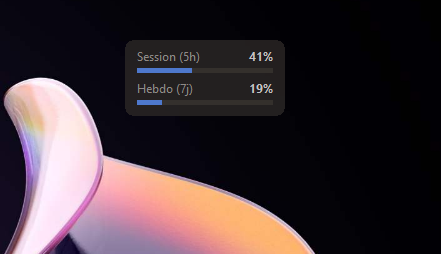
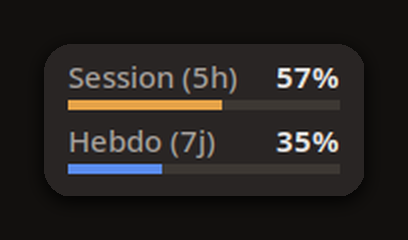
docs: met à jour README/CHANGELOG v2.3.0 et régénère les captures
- README: section « Nouveautés v2.3.0 », panneau détaillé en vedette,
  prérequis Linux corrigés (ayatana + tk + extension GNOME), install PyPI
  via venv --system-site-packages, interactions overlay à jour
- CHANGELOG: entrées Linux/GNOME, fixes overlay/menu, CI Windows
- captures régénérées (popup tous quotas, overlay normal/mini) via le
  nouvel outil tools/capture_screenshots.py ; supprime overlay-hover.png
  (survol supprimé)

diff --git a/tools/capture_screenshots.py b/tools/capture_screenshots.py
@@ -1,0 +1,123 @@
+"""Génère les captures d'écran du README à partir des vrais widgets.
+
+Instancie PopupWindow et OverlayWidget avec des données représentatives,
+affiche chaque fenêtre puis la capture par sa géométrie (PIL ImageGrab, X11).
+Sortie : assets/screenshots/*.png
+
+Usage : uv run python tools/capture_screenshots.py
+"""
+
+from __future__ import annotations
+
+import time
+import tkinter as tk
+from datetime import datetime, timedelta, timezone
+from pathlib import Path
+
+from PIL import Image, ImageDraw, ImageFilter, ImageGrab
+
+from claude_usage_monitor.api import ExtraUsage, UsageData, UsageWindow
+from claude_usage_monitor.i18n import init_i18n
+from claude_usage_monitor.overlay import OverlayWidget
+from claude_usage_monitor.popup import PopupWindow
+
+BACKDROP = (18, 16, 14)  # fond neutre proche du thème Claude sombre
+OUT = Path(__file__).resolve().parent.parent / "assets" / "screenshots"
+
+# Langue cohérente pour les captures (README en français)
+init_i18n("fr")
+
+
+def _resets(hours: float) -> str:
+    return (datetime.now(timezone.utc) + timedelta(hours=hours)).isoformat()
+
+
+def sample_data() -> UsageData:
+    """Forfait Max avec les cinq quotas + utilisation supplémentaire."""
+    return UsageData(
+        five_hour=UsageWindow(utilization=57, resets_at=_resets(2.4)),
+        seven_day=UsageWindow(utilization=35, resets_at=_resets(78)),
+        seven_day_sonnet=UsageWindow(utilization=28, resets_at=_resets(78)),
+        seven_day_opus=UsageWindow(utilization=12, resets_at=_resets(78)),
+        extra_usage=ExtraUsage(
+            is_enabled=True, used_credits=1988, monthly_limit=3000, utilization=66
+        ),
+        subscription_type="max",
+    )
+
+
+def _round_corners(img: Image.Image, radius: int) -> Image.Image:
+    mask = Image.new("L", img.size, 0)
+    ImageDraw.Draw(mask).rounded_rectangle([0, 0, img.width, img.height], radius, fill=255)
+    out = img.convert("RGBA")
+    out.putalpha(mask)
+    return out
+
+
+def present(img: Image.Image, pad: int, radius: int) -> Image.Image:
+    """Centre le widget sur un fond neutre, coins arrondis + ombre portée."""
+    card = _round_corners(img, radius)
+    cw, ch = img.width + pad * 2, img.height + pad * 2
+    canvas = Image.new("RGBA", (cw, ch), (*BACKDROP, 255))
+
+    shadow = Image.new("RGBA", (cw, ch), (0, 0, 0, 0))
+    sh = Image.new("RGBA", img.size, (0, 0, 0, 130))
+    sh = _round_corners(sh, radius)
+    shadow.paste(sh, (pad, pad + 5), sh)
+    shadow = shadow.filter(ImageFilter.GaussianBlur(9))
+
+    canvas = Image.alpha_composite(canvas, shadow)
+    canvas.paste(card, (pad, pad), card)
+    return canvas.convert("RGB")
+
+
+def grab(
+    window: tk.Toplevel, path: Path, pad: int = 32, radius: int = 14, scale: int = 1
+) -> None:
+    window.update_idletasks()
+    window.update()
+    time.sleep(0.5)
+    window.update()
+    x, y = window.winfo_rootx(), window.winfo_rooty()
+    w, h = window.winfo_width(), window.winfo_height()
+    raw = ImageGrab.grab(bbox=(x, y, x + w, y + h))
+    if scale != 1:
+        raw = raw.resize((raw.width * scale, raw.height * scale), Image.LANCZOS)
+    img = present(raw, pad, radius * scale)
+    img.save(path)
+    print(f"  {path.name}  {img.size}")
+
+
+def main() -> None:
+    OUT.mkdir(parents=True, exist_ok=True)
+    data = sample_data()
+    root = tk.Tk()
+    root.withdraw()
+
+    # Overlay normal
+    ov = OverlayWidget(root, {"widget_opacity": 1.0})
+    ov.update_data(data)
+    ov.show()
+    grab(ov._window, OUT / "overlay-normal.png", pad=44, scale=2)
+    ov.hide()
+
+    # Overlay mini
+    ov_mini = OverlayWidget(root, {"widget_opacity": 1.0, "overlay_mini_mode": True})
+    ov_mini.update_data(data)
+    ov_mini.show()
+    grab(ov_mini._window, OUT / "overlay-mini.png", pad=44, scale=2)
+    ov_mini.hide()
+
+    # Popup « Utilisation du forfait » (tous les quotas)
+    popup = PopupWindow(root, on_refresh=lambda: None)
+    popup.update_data(data)
+    popup.show(anchor_rect=(700, 300, 160, 76))
+    grab(popup._window, OUT / "popup.png")
+    popup.hide()
+
+    root.destroy()
+    print("OK")
+
+
+if __name__ == "__main__":
+    main()

diff --git a/README.md b/README.md
@@ -18,15 +18,24 @@ Si vous l'aimez, une ⭐ sur le repo fait vraiment plaisir et aide le projet à 
 > **Projet publié à titre de présentation et de consultation.**
 > Tous droits réservés. Aucune utilisation, reproduction, modification, redistribution ou exploitation commerciale n'est autorisée sans accord écrit préalable de l'auteur. Voir [LICENSE.md](LICENSE.md).
 
+## ✨ Nouveautés v2.3.0
+
+- **Panneau « Utilisation du forfait » complet** : reproduit le panneau natif de Claude — session 5 h, hebdomadaire tous modèles, **Sonnet seul**, **Opus seul** (Max) et **utilisation supplémentaire** (overage en $), chacun avec barre colorée et compte à rebours de réinitialisation.
+- **Linux / GNOME pris en charge** : icône système via **AppIndicator** (affichée par GNOME) avec le **pourcentage en texte** à côté de l'icône, plus correction du crash de démarrage X11.
+- **Overlay plus stable** : ouverture du panneau sans clignotement, taille fixe (ne se déplace plus), mode mini avec état coché dans le menu.
+- **CI Windows** : le `.exe` est désormais compilé automatiquement et attaché aux releases.
+
+Détail complet dans le [CHANGELOG](CHANGELOG.md).
+
 ## Aperçu
 
-| Widget compact | Mode mini |
-|:-:|:-:|
-| ![Overlay normal](https://raw.githubusercontent.com/audi63/claude-usage-monitor/main/assets/screenshots/overlay-normal.png) | ![Overlay mini](https://raw.githubusercontent.com/audi63/claude-usage-monitor/main/assets/screenshots/overlay-mini.png) |
+**Panneau détaillé « Utilisation du forfait »** (au clic sur l'overlay) — tous les quotas du forfait d'un coup d'œil :
 
-| Panneau « Utilisation du forfait » (au clic) | Tooltip systray | Menu tray |
+![Panneau Utilisation du forfait](https://raw.githubusercontent.com/audi63/claude-usage-monitor/main/assets/screenshots/popup.png)
+
+| Widget compact | Mode mini | Menu tray |
 |:-:|:-:|:-:|
-| ![Popup](https://raw.githubusercontent.com/audi63/claude-usage-monitor/main/assets/screenshots/popup.png) | ![Tooltip](https://raw.githubusercontent.com/audi63/claude-usage-monitor/main/assets/screenshots/tray-tooltip.png) | ![Menu](https://raw.githubusercontent.com/audi63/claude-usage-monitor/main/assets/screenshots/tray-menu.png) |
+| ![Overlay normal](https://raw.githubusercontent.com/audi63/claude-usage-monitor/main/assets/screenshots/overlay-normal.png) | ![Overlay mini](https://raw.githubusercontent.com/audi63/claude-usage-monitor/main/assets/screenshots/overlay-mini.png) | ![Menu](https://raw.githubusercontent.com/audi63/claude-usage-monitor/main/assets/screenshots/tray-menu.png) |
 
 ## Pourquoi ?
 
@@ -54,7 +63,7 @@ Si vous l'aimez, une ⭐ sur le repo fait vraiment plaisir et aide le projet à 
 | Plateforme | Statut | Notes |
 |---|---|---|
 | Windows 10/11 | ✅ Testé | Exécutable `.exe` disponible |
-| Linux (X11) | ✅ Compatible | Nécessite `libappindicator3` |
+| Linux (X11) | ✅ Compatible | GNOME : nécessite AppIndicator (voir prérequis Linux) |
 | macOS | ⚠️ Partiel | Credentials lus depuis le Keychain (comme Claude Code) ; non testé en production |
 
 > **À noter** : la *fenêtre de contexte* (ex. `401.1k / 1.0M`) affichée dans le panneau de Claude Code n'est pas reprise — c'est une donnée locale et éphémère propre à chaque session Claude, non exposée par l'API d'utilisation. Le moniteur affiche tout le reste du forfait.
@@ -70,9 +79,18 @@ Si vous l'aimez, une ⭐ sur le repo fait vraiment plaisir et aide le projet à 
 
 ### Linux uniquement
 
+L'interface utilise **tkinter** et l'icône système passe par **AppIndicator**
+(seul mécanisme affiché par GNOME, qui ne rend pas le tray XEmbed historique).
+Sur Ubuntu 24.04 / GNOME :
+
 ```bash
-sudo apt install libappindicator3-1 gir1.2-appindicator3-0.1
+sudo apt install python3-tk python3-gi \
+  gir1.2-ayatanaappindicator3-0.1 libayatana-appindicator3-1 \
+  gnome-shell-extension-appindicator
 ```
+
+> Après l'installation de l'extension GNOME, se déconnecter/reconnecter (ou
+> l'activer via l'app « Extensions ») pour que l'icône apparaisse dans la barre.
 
 ## Installation
 
@@ -80,12 +98,26 @@ sudo apt install libappindicator3-1 gir1.2-appindicator3-0.1
 
 Télécharger `claude-usage-monitor.exe` depuis la page [Releases](https://github.com/audi63/claude-usage-monitor/releases) et le lancer directement.
 
-### Option 2 : Depuis les sources
+### Option 2 : Linux via PyPI
+
+PyGObject (`gi`) est fourni par le système (`python3-gi`) : l'environnement doit
+donc voir les paquets système. On installe dans un venv `--system-site-packages`
+(un venv pipx isolé ne verrait pas `gi`, donc pas d'icône sur GNOME) :
+
+```bash
+python3 -m venv --system-site-packages ~/.local/claude-usage-monitor
+~/.local/claude-usage-monitor/bin/pip install claude-monitor-usage
+~/.local/claude-usage-monitor/bin/claude-usage-monitor
+```
+
+### Option 3 : Depuis les sources
 
 ```bash
 git clone https://github.com/audi63/claude-usage-monitor.git
 cd claude-usage-monitor
-uv sync
+uv venv --system-site-packages    # Linux : pour voir le gi système (AppIndicator)
+uv pip install -e ".[hotkeys]"
+uv run claude-usage-monitor
 ```
 
 ## Utilisation
@@ -102,11 +134,10 @@ uv run claude-usage-monitor
 
 ### Interactions
 
-- **Clic droit** sur le tray icon → menu contextuel (rafraîchir, overlay, quitter…)
+- **Clic droit** sur le tray icon → menu contextuel (rafraîchir, overlay, mode mini, quitter…)
 - **Clic gauche** sur le tray icon → popup détaillé
-- **Survol** du widget overlay → vue étendue avec barres, countdowns, estimation et sparkline 6h
-- **Double-clic** sur le widget overlay → popup complet avec sparkline 24h et infos abonnement
-- **Glisser-déposer** le widget overlay → repositionner (fonctionne aussi en vue étendue)
+- **Clic** sur le widget overlay → grande vue (panneau « Utilisation du forfait ») ancrée à côté, qui se referme quand la souris quitte la zone
+- **Glisser-déposer** le widget overlay → repositionner (la position est mémorisée)
 - **Ctrl+Shift+U** → afficher/masquer le widget overlay
 
 ## Configuration

diff --git a/CHANGELOG.md b/CHANGELOG.md
@@ -11,6 +11,8 @@ Le format est basé sur [Keep a Changelog](https://keepachangelog.com/fr/1.1.0/)
 - **Quotas par modèle** : affichage de `Sonnet seulement` (`seven_day_sonnet`) et `Opus seulement` (`seven_day_opus`) en plus de la session 5 h et de l'hebdomadaire tous modèles. Les lignes s'affichent dynamiquement selon ce que renvoie l'API (Pro comme Max)
 - **Utilisation supplémentaire** : nouvelle ligne `Utilisation supplémentaire` indiquant les dollars dépensés sur la limite mensuelle (`extra_usage` : `used_credits`/`monthly_limit` en centimes), formatée selon la langue (`19,88 $US sur 30,00 $US`)
 - Ces nouveaux quotas apparaissent aussi dans la vue au survol de l'overlay et dans le tooltip du tray
+- **Linux/GNOME : texte dans la barre système** : le pourcentage de la session 5 h s'affiche en texte lisible à côté de l'icône (label AppIndicator natif), comme le nombre gravé dans l'icône sous Windows
+- **CI : build du `.exe` Windows** : workflow GitHub Actions (`build-windows.yml`) qui compile l'exécutable sur un runner Windows et l'attache à la release publiée
 
 ### Modifié
 - **Overlay : fin de l'agrandissement au survol** : l'overlay garde désormais toujours sa taille compacte et **ne se déplace plus** (le problème survenait surtout en mode mini collé à un bord). La « grande vue » s'ouvre désormais **au clic**, **à côté** de l'overlay (du côté qui reste visible), et se referme automatiquement quand la souris quitte sa zone. Le glisser-déposer pour repositionner l'overlay reste disponible.
@@ -19,6 +21,10 @@ Le format est basé sur [Keep a Changelog](https://keepachangelog.com/fr/1.1.0/)
 - **Données plus à jour** : intervalle de rafraîchissement par défaut ramené à 60 s (au lieu de 300 s) — aligné sur le minimum client de l'API, donc sans risque de rate-limit supplémentaire — et **fetch à l'ouverture du popup** pour afficher des données fraîches au moment où on regarde, comme le panneau natif
 - **macOS : lecture du Keychain** : Claude Code stocke ses credentials dans le trousseau (`security … -s "Claude Code-credentials"`) et non dans `.credentials.json` — l'app lit désormais le Keychain en priorité (lecture **et** écriture lors d'un refresh de token), ce qui corrige les données absentes/périmées sur macOS
 - **User-Agent dynamique** : `claude-code/<version>` détecté depuis l'installation locale de Claude Code (repli `2.1.4`) au lieu de la valeur figée `2.0.31`
+- **Linux : crash au démarrage** : le titre de la fenêtre tray (contenant `—`, `⚠`) faisait planter le backend X11 de pystray (`set_wm_name` encode en latin-1). Le titre est désormais translittéré en latin-1 sous Linux (no-op Windows/macOS)
+- **Linux/GNOME : icône invisible** : GNOME ne rend pas le tray XEmbed historique. L'app utilise désormais le backend **AppIndicator** quand il est disponible (prérequis documentés), affiché par l'extension GNOME
+- **Overlay/popup : clignotement à l'ouverture** : la fenêtre apparaissait un instant à sa position par défaut avant de sauter à sa place. Elle est désormais masquée (`withdraw`) pendant construction + positionnement puis affichée (`deiconify`) une fois placée
+- **Menu : état des bascules** : les coches « Mode mini » et « Démarrage auto » reflètent désormais l'état réel et se mettent à jour au clic (`update_menu`)
 
 ### Note
 - La **fenêtre de contexte** (ex. `401.1k / 1.0M`) visible dans le panneau de Claude Code n'est **pas** reprise : c'est une donnée locale et éphémère propre à chaque session Claude, non exposée par l'API usage — un moniteur externe n'y a pas accès.